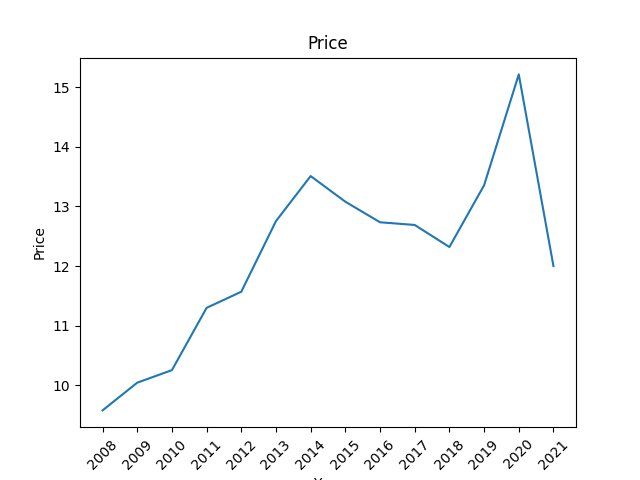
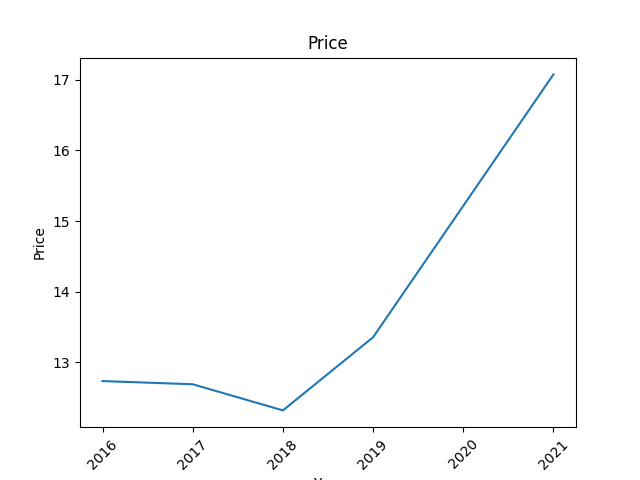
update year

diff --git a/main.py b/main.py
@@ -63,23 +63,6 @@ def calculate_mean_price(customer_type, val_yearly_demand):
     ht_factor = haupt_tarif("ht_nt_price.xlsx")
     nt_factor = neben_tarif("ht_nt_price.xlsx")
 
-    
-    #households 0-2000 MWh
-    household_prices_without_VAT = pd.read_excel(r'Energiepreisentwicklung.xlsx',sheet_name='5.8.2 Strom - € - Haushalte', skiprows = 5, nrows = 26, index_col = 0)
-    household_prices_without_VAT = household_prices_without_VAT.iloc[:,0]
-    household_prices_without_VAT = household_prices_without_VAT.reset_index()
-    household_prices_without_VAT["index"]= household_prices_without_VAT["index"].str.slice(start = 5)
-    household_prices_without_VAT.columns = ["year","price"]
-    household_prices_without_VAT = household_prices_without_VAT.set_index("year")
-    household_prices_without_VAT.index = household_prices_without_VAT.index.astype(str)
-    household_prices_without_VAT.index =  pd.to_datetime(household_prices_without_VAT.index, errors='ignore')
-    household_prices_without_VAT = household_prices_without_VAT.astype(float)
-    household_prices_without_VAT = household_prices_without_VAT.resample('12M').mean()
-    household_prices_without_VAT.index = household_prices_without_VAT.index.astype(str)
-    household_prices_without_VAT.index= household_prices_without_VAT.index.str.slice(start = 0, stop = -6)
-    household_prices_without_VAT = household_prices_without_VAT[6:].reset_index()
-    household_prices_without_VAT = household_prices_without_VAT[household_prices_without_VAT.year >= str(2016)]
-    household_prices_without_VAT
 
     #industrial 20000 - 20000 MWh
     industrie_prices_without_VAT = pd.read_excel(r'Energiepreisentwicklung.xlsx',sheet_name='5.8.3 Strom - € - Industrie', skiprows = 5, nrows = 26, index_col = 0)
@@ -102,28 +85,39 @@ def calculate_mean_price(customer_type, val_yearly_demand):
     industrie_prices_without_VAT = industrie_prices_without_VAT[industrie_prices_without_VAT.year >= str(2016)]
 
 
-
     #industrial 150000 MWh
     v_big_industrial_prices_BDEW = {'year': range(2019,2021), 'price': [3.77,3.05]}
     v_big_industrial_prices_BDEW = pd.DataFrame(data=v_big_industrial_prices_BDEW)
     v_big_industrial_prices_BDEW
 
     #industrial 70000-150000 MWh
-    big_industrial_prices_BDEW = {'year': range(2007,2021), 'price': [7.91, 8.56, 8.69, 8.63, 10.07, 9.26, 10.18, 10.48, 9.76, 8.37, 9.96, 8.96, 9.28, 10.07]}
+    big_industrial_prices_BDEW = {'year': range(2016,2021), 'price': [8.37, 9.96, 8.96, 9.28, 10.07]}
     big_industrial_prices_BDEW = pd.DataFrame(data=big_industrial_prices_BDEW)
-    big_industrial_prices_BDEW = big_industrial_prices_BDEW[big_industrial_prices_BDEW.year >= str(2016)]
     big_industrial_prices_BDEW
 
 
     #industrial 20000-70000 MWh
     mid_industrie_prices = pd.read_excel(r'output.xlsx')
-    mid_industrie_prices.columns = ['year', 'price']    
-    mid_industrie_prices = mid_industrie_prices[mid_industrie_prices.year >= str(2016)]
-
+    mid_industrie_prices.columns = ['year', 'price']
     mid_industrie_prices
 
 
-
+    #households 0-2000 MWh
+    household_prices_without_VAT = pd.read_excel(r'Energiepreisentwicklung.xlsx',sheet_name='5.8.2 Strom - € - Haushalte', skiprows = 5, nrows = 26, index_col = 0)
+    household_prices_without_VAT = household_prices_without_VAT.iloc[:,0]
+    household_prices_without_VAT = household_prices_without_VAT.reset_index()
+    household_prices_without_VAT["index"]= household_prices_without_VAT["index"].str.slice(start = 5)
+    household_prices_without_VAT.columns = ["year","price"]
+    household_prices_without_VAT = household_prices_without_VAT.set_index("year")
+    household_prices_without_VAT.index = household_prices_without_VAT.index.astype(str)
+    household_prices_without_VAT.index =  pd.to_datetime(household_prices_without_VAT.index, errors='ignore')
+    household_prices_without_VAT = household_prices_without_VAT.astype(float)
+    household_prices_without_VAT = household_prices_without_VAT.resample('12M').mean()
+    household_prices_without_VAT.index = household_prices_without_VAT.index.astype(str)
+    household_prices_without_VAT.index= household_prices_without_VAT.index.str.slice(start = 0, stop = -6)
+    household_prices_without_VAT = household_prices_without_VAT[6:].reset_index()
+    household_prices_without_VAT = household_prices_without_VAT[household_prices_without_VAT.year >= str(2016)]
+    household_prices_without_VAT
 
 
     if ((customer_type == 0) & ((val_yearly_demand >= 2500) & (val_yearly_demand <= 5000))):
